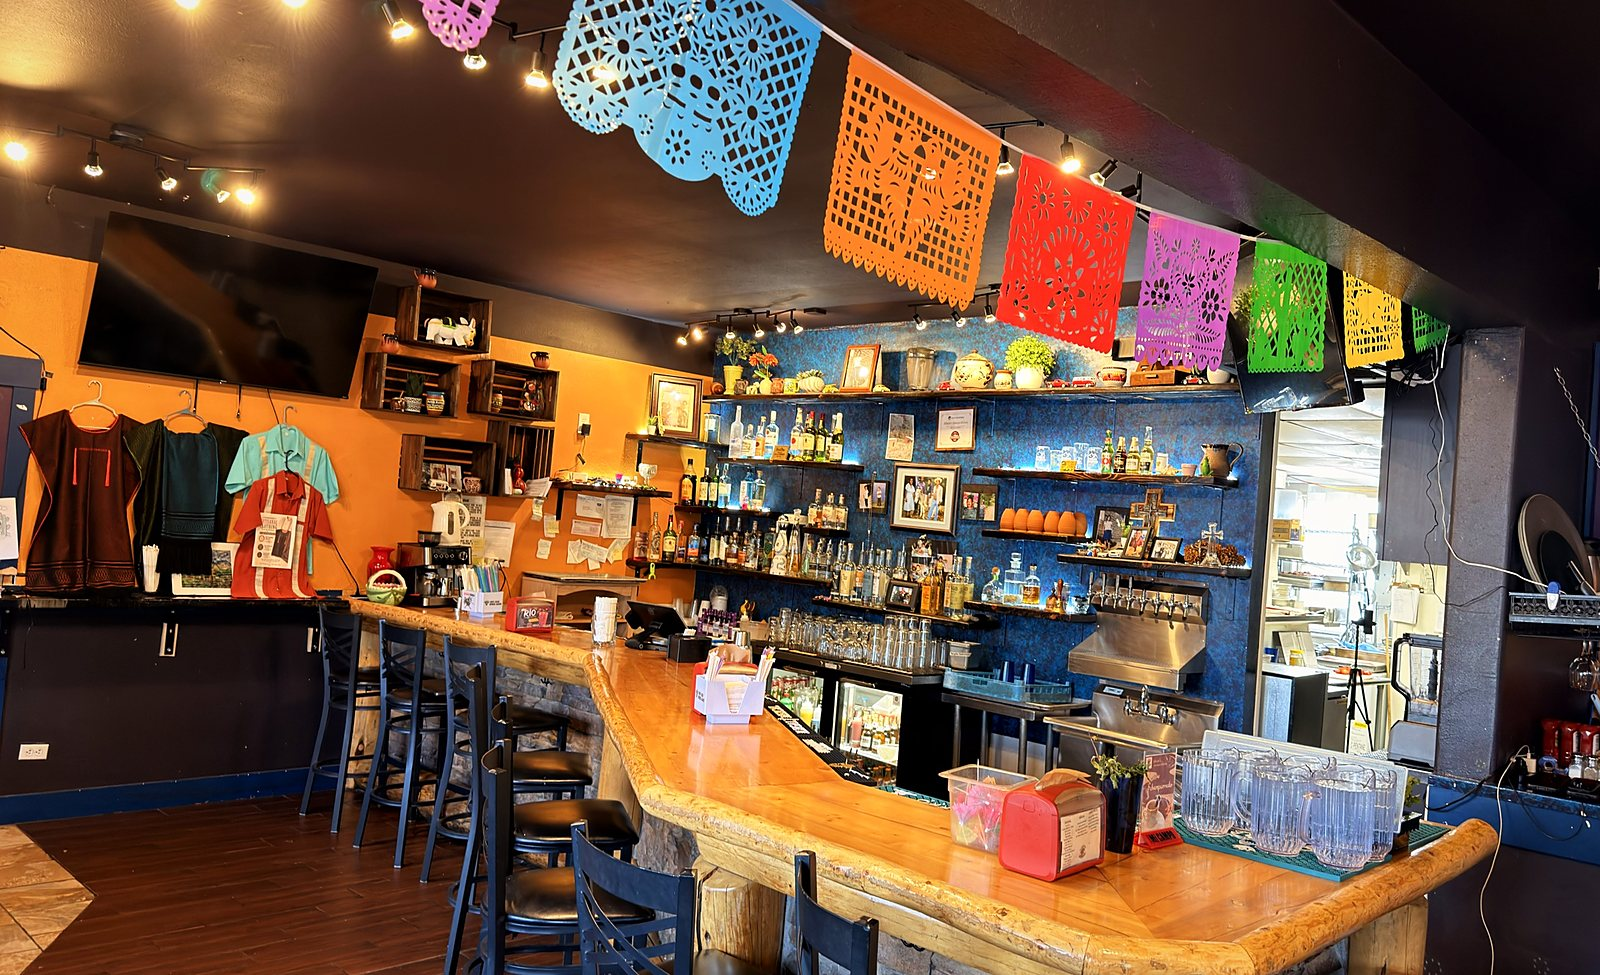
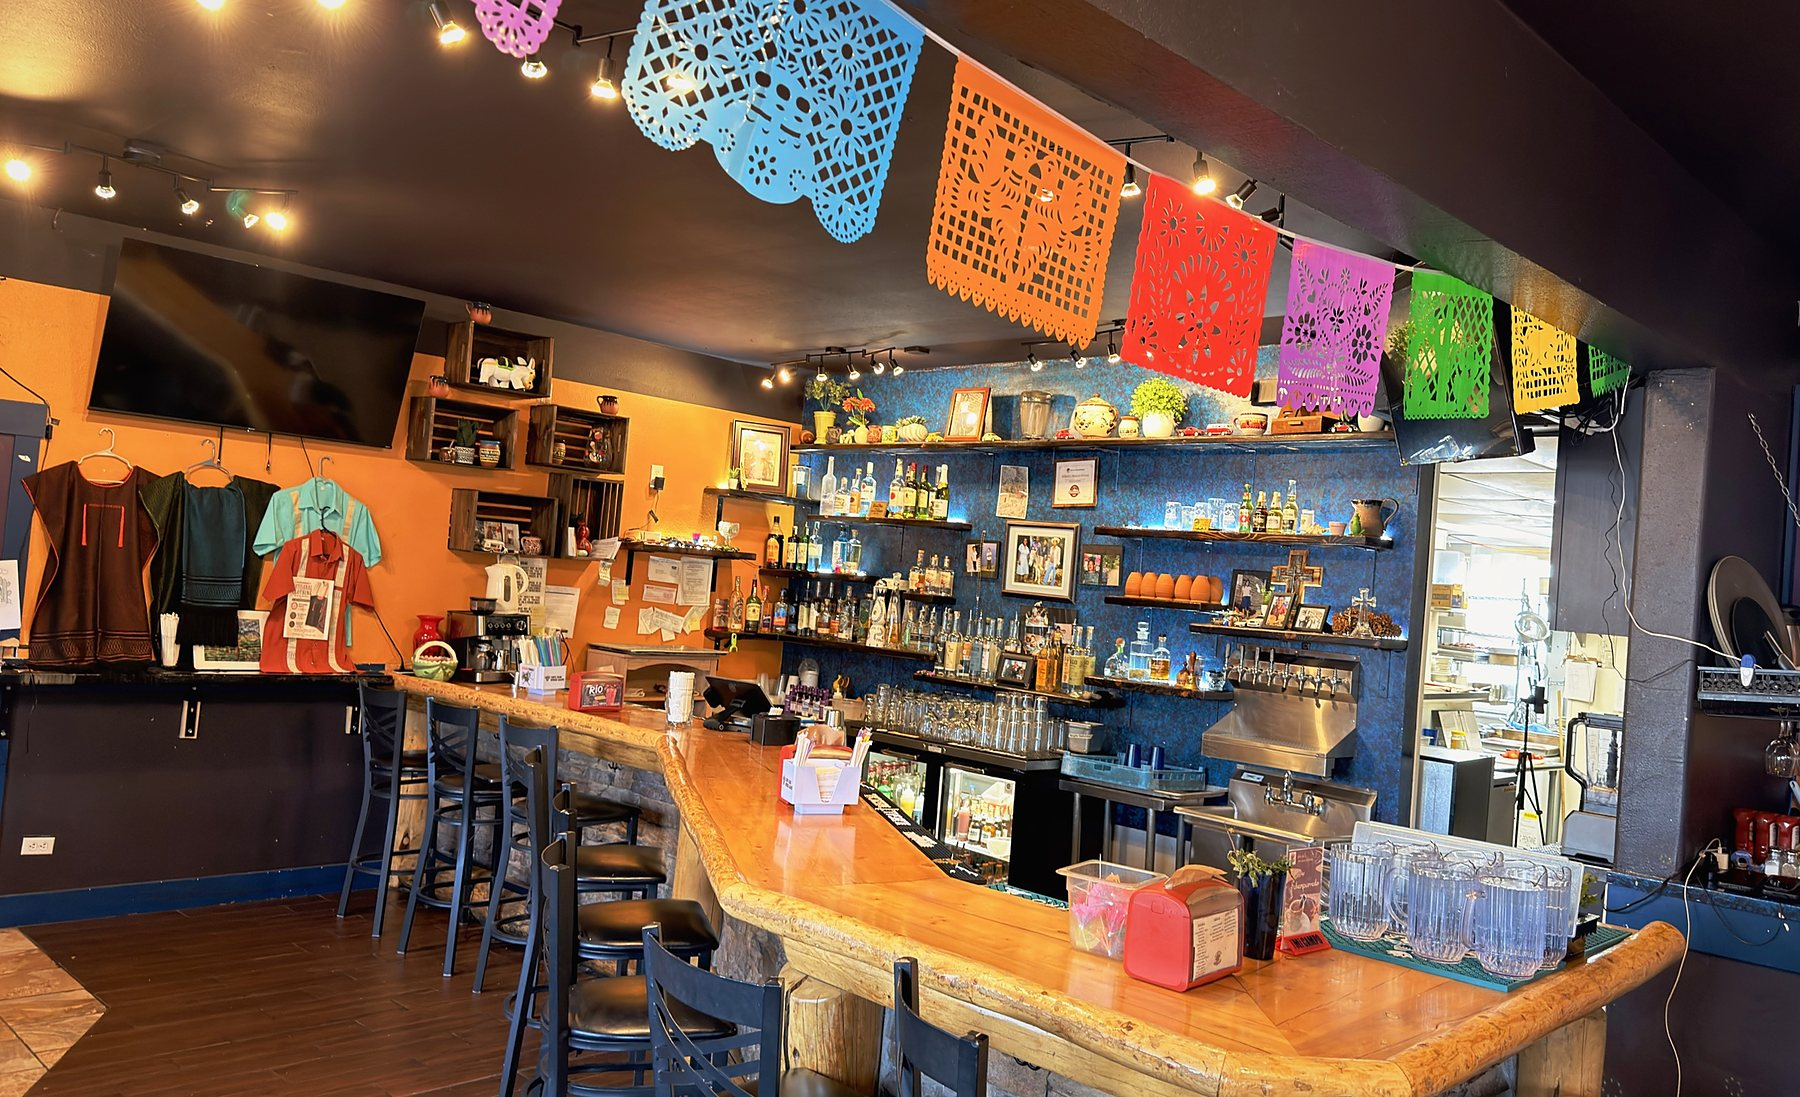
Redesign photo layout: cleaner frames, new menu photo strip, better Alberto shot
- Swap birria photo for a clean frame (no sunglasses on the table)
- Our Story: Alberto flipping a pan, unframed 4:5 with a quiet caption
- Menu: 4-up staggered photo strip under the header; breakfast pair at 3:2
- Find Us: bar photo beside the details, map moved to a full-width strip
- Tlayuda (no photo yet) becomes a centered interlude instead of an empty row
- Drop the weaker shots (smothered burrito) and the old framed sticker style

Claude-Session: https://claude.ai/code/session_01Qs3haLnLkk3n1Sg2hGmAWp

diff --git a/css/styles.css b/css/styles.css
@@ -109,8 +109,6 @@ a.brand{text-decoration:none;color:var(--ink)}
 .story-photo .glyph{font-family:'Fraunces',serif;font-style:italic;font-size:clamp(20px,2.6vw,26px);color:var(--ink-soft);opacity:.75;line-height:1.25}
 .story-photo.filled{border:7px solid var(--cream);background:none;padding:0;box-shadow:0 34px 64px -30px rgba(0,0,0,.8)}
 .story-photo.filled .px-img{position:absolute;top:0;left:0;width:100%;height:100%;background-size:cover;background-position:center}
-.story-photo.filled{aspect-ratio:4/5;max-width:520px;width:100%;justify-self:center}
-.story-photo.filled .stamp{z-index:1}
 @media(min-width:860px){.story-grid{grid-template-columns:1.05fr .95fr}}
 /* single-column story, used while the Our Kitchen photo slot is empty */
 .story-grid.solo{grid-template-columns:1fr;max-width:840px;margin-left:auto;margin-right:auto}
@@ -200,8 +198,6 @@ a.brand{text-decoration:none;color:var(--ink)}
 .info-row .v{color:rgba(252,246,234,.9)}
 .info-row .v a{color:var(--cream)}
 .visit-actions{display:flex;gap:14px;flex-wrap:wrap;margin-top:26px}
-.visit-media{display:grid;gap:18px}
-.visit-photo{display:block;width:100%;aspect-ratio:16/10;object-fit:cover;border-radius:20px;border:5px solid var(--cream)}
 .map{border-radius:20px;overflow:hidden;min-height:340px;border:5px solid var(--cream)}
 .map iframe{width:100%;height:100%;min-height:340px;border:0;display:block;filter:saturate(1.05)}
 
@@ -263,3 +259,27 @@ footer{background:var(--mole2);color:var(--cream);padding:clamp(44px,6vw,68px) 0
 .px{border:none;border-radius:4px;aspect-ratio:4/3}
 @media(min-width:880px){.faves .wrap{max-width:1360px}.frow{grid-template-columns:1.35fr 1fr}.frow.rev{grid-template-columns:1fr 1.35fr}.px{aspect-ratio:5/4}}
 .bandsec{padding:0}.band{max-width:none;border-radius:0;min-height:clamp(420px,62vw,640px)}
+
+/* ===== real photography (Nov 2026) =====
+   One quiet frame style everywhere: no borders, 4px corners, soft shadow,
+   small letter-spaced captions. */
+.story-figure,.visit-figure{margin:0}
+.story-figure img,.visit-figure img{display:block;width:100%;height:auto;object-fit:cover;border-radius:4px;box-shadow:0 40px 70px -40px rgba(32,17,10,.55)}
+.story-figure img{aspect-ratio:4/5}
+.story-figure figcaption,.visit-figure figcaption{margin-top:14px;font-size:12px;letter-spacing:.22em;text-transform:uppercase;color:var(--ink-soft)}
+.story-figure figcaption::before,.visit-figure figcaption::before{content:"";display:inline-block;width:28px;height:1px;background:currentColor;vertical-align:middle;margin-right:12px;opacity:.6}
+@media(min-width:860px){
+  .story-grid{grid-template-columns:1fr .9fr;gap:clamp(56px,7vw,110px)}
+  .story-figure{margin-top:-20px}
+}
+/* text-only favorite (no photo yet): centered interlude, framed by thin rules */
+.frow.textonly{grid-template-columns:1fr!important;max-width:620px;margin-left:auto;margin-right:auto;text-align:center;padding:clamp(36px,5vw,56px) 0;border-top:1px solid rgba(252,246,234,.14);border-bottom:1px solid rgba(252,246,234,.14)}
+.frow.textonly .ftext p{margin-left:auto;margin-right:auto}
+/* visit: bar photo beside the details, map runs full width below */
+.visit-figure img{aspect-ratio:4/3;box-shadow:0 40px 80px -40px rgba(0,0,0,.9)}
+.visit-figure figcaption{color:rgba(252,246,234,.6)}
+@media(min-width:860px){.visit-grid{align-items:center;grid-template-columns:1fr 1.1fr;gap:clamp(48px,6vw,96px)}}
+.map.map-strip{border:0;border-radius:0;min-height:0;height:clamp(260px,32vw,380px);margin-top:clamp(56px,8vw,100px);filter:grayscale(.35) contrast(.95)}
+.map.map-strip iframe{height:100%;min-height:0}
+.visit{padding-bottom:0}
+@media(max-width:600px){.story-stats{flex-wrap:nowrap;gap:8px}.story-stats .stat{flex:1 1 0;min-width:0;padding:12px 10px}.story-stats .stat .n{font-size:20px}.story-stats .stat .l{font-size:11px}}

diff --git a/menu.html b/menu.html
@@ -46,6 +46,16 @@
   </div>
 </section>
 
+<!-- PHOTO STRIP: real photos from the restaurant -->
+<section class="mstrip" aria-label="Photos from Allberto's">
+  <div class="mstrip-grid">
+    <figure class="reveal"><img src="images/alberto-grill.jpg" alt="Alberto cooking on the grill" width="1100" height="1375" /><figcaption>Alberto at the grill</figcaption></figure>
+    <figure class="reveal"><img src="images/chilaquiles-tall.jpg" alt="Chilaquiles with steak and avocado" width="1100" height="1375" /><figcaption>Chilaquiles</figcaption></figure>
+    <figure class="reveal"><img src="images/birria-tall.jpg" alt="Birria tacos with consommé" width="819" height="980" /><figcaption>Birria</figcaption></figure>
+    <figure class="reveal"><img src="images/omelette-tall.jpg" alt="Steak omelette with home fries and tortillas" width="1100" height="1375" /><figcaption>Steak omelette</figcaption></figure>
+  </div>
+</section>
+
 <!-- MARQUEE -->
 <div class="marquee" aria-hidden="true">
   <div class="marquee-track">
@@ -169,10 +179,8 @@
       <span class="mprice">$18.50</span>
     </div>
     <div class="mpics reveal">
-      <figure><img src="images/chilaquiles-menu.jpg" alt="Chilaquiles with steak and avocado" loading="lazy" /><figcaption>Chilaquiles with steak</figcaption></figure>
-      <figure><img src="images/steak-omelette.jpg" alt="Steak omelette with home fries and flour tortillas" loading="lazy" /><figcaption>Steak omelette</figcaption></figure>
-      <figure><img src="images/french-toast.jpg" alt="French toast with berry compote, cream, two eggs and home fries" loading="lazy" /><figcaption>French toast</figcaption></figure>
-      <figure><img src="images/egg-tacos.jpg" alt="Scrambled egg breakfast tacos with pico de gallo and salsa" loading="lazy" /><figcaption>Breakfast tacos</figcaption></figure>
+      <figure><img src="images/egg-tacos.jpg" alt="Scrambled egg breakfast tacos with pico de gallo and salsa" width="1200" height="800" loading="lazy" /><figcaption>Breakfast tacos</figcaption></figure>
+      <figure><img src="images/french-toast.jpg" alt="French toast with berry compote, cream, two eggs and home fries" width="1200" height="800" loading="lazy" /><figcaption>French toast</figcaption></figure>
     </div>
   </div>
 </section>
@@ -314,9 +322,6 @@
       <h3>Smother It</h3>
       <p>Homemade enchilada or ranchero sauce topped with crema and avocado sauce +$4.50 · homemade queso poblano +$6.</p>
       <span class="mprice">+$4.50 / +$6</span>
-    </div>
-    <div class="mpics one reveal">
-      <figure><img src="images/wet-burrito.jpg" alt="Burrito smothered in red and green sauce, topped with a fried egg, crema and avocado" loading="lazy" /><figcaption>Smothered, red and green</figcaption></figure>
     </div>
   </div>
 </section>

diff --git a/index.html b/index.html
@@ -82,10 +82,10 @@
         <div class="stat"><div class="n">4.7★</div><div class="l">Google reviews</div></div>
       </div>
     </div>
-    <div class="story-photo filled reveal">
-      <div class="px-img" role="img" aria-label="Alberto cooking on the grill in the Allberto's kitchen" style="background-image:url('images/kitchen-alberto.jpg')"></div>
-      <span class="stamp">OUR KITCHEN</span>
-    </div>
+    <figure class="story-figure reveal">
+      <img src="images/alberto-pan.jpg" alt="Alberto flipping a pan in the Allberto's kitchen" width="1100" height="1375" loading="lazy" />
+      <figcaption>Alberto in the kitchen</figcaption>
+    </figure>
   </div>
 </section>
 
@@ -102,7 +102,7 @@
 
     <div class="frow">
       <div class="fmedia reveal">
-        <div class="px" data-amp="18"><div class="px-img" style="background-image:url('images/birria-plate.jpg')"></div></div>
+        <div class="px" data-amp="18"><div class="px-img" role="img" aria-label="Birria tacos with a cup of consommé" style="background-image:url('images/birria-plate.jpg')"></div></div>
       </div>
       <div class="ftext reveal">
         <span class="ftag">Dip &amp; Devour</span>
@@ -124,7 +124,7 @@
       </div>
     </div>
 
-    <div class="frow" style="grid-template-columns:1fr"><!-- tlayuda photo removed until the real one is shot -->
+    <div class="frow textonly"><!-- tlayuda: text-only until a real photo is shot -->
       <div class="ftext reveal">
         <span class="ftag">Oaxaca Classic</span>
         <h3>Tlayuda Oaxaqueña</h3>
@@ -249,11 +249,12 @@
       </div>
       <p style="margin-top:26px;color:rgba(252,246,234,.7);font-size:15px">Planning an event? We cater. Give us a call and we'll build a spread for your group.</p>
     </div>
-    <div class="visit-media reveal">
-      <img class="visit-photo" src="images/bar.jpg" alt="The bar inside Allberto's, with papel picado and string lights" loading="lazy" />
-      <div class="map"><iframe title="Map to Allberto's Mexican Kitchen" loading="lazy" src="https://www.google.com/maps?q=1900+Airport+Road+Breckenridge+CO&output=embed"></iframe></div>
-    </div>
+    <figure class="visit-figure reveal">
+      <img src="images/bar.jpg" alt="The bar inside Allberto's, with papel picado and string lights" width="1800" height="1097" loading="lazy" />
+      <figcaption>Pull up a stool at the bar</figcaption>
+    </figure>
   </div>
+  <div class="map map-strip"><iframe title="Map to Allberto's Mexican Kitchen" loading="lazy" src="https://www.google.com/maps?q=1900+Airport+Road+Breckenridge+CO&output=embed"></iframe></div>
 </section>
 
 <!-- FOOTER -->

diff --git a/css/menu.css b/css/menu.css
@@ -11,9 +11,10 @@
 /* photo strip */
 .mstrip{max-width:var(--maxw);margin:0 auto;padding:clamp(10px,2vw,24px) var(--pad) clamp(30px,5vw,54px)}
 .mstrip-grid{display:grid;grid-template-columns:repeat(2,1fr);gap:clamp(10px,1.6vw,18px)}
-.mstrip .px{aspect-ratio:4/5;border-width:5px;border-radius:18px}
-.mstrip .tile-b{transform:rotate(-1.2deg)}
-.mstrip .tile-d{transform:rotate(1.2deg)}
+.mstrip figure{margin:0}
+.mstrip img{display:block;width:100%;height:auto;aspect-ratio:4/5;object-fit:cover;border-radius:4px;box-shadow:0 30px 50px -34px rgba(32,17,10,.6)}
+.mstrip figcaption{margin-top:10px;font-size:11px;letter-spacing:.2em;text-transform:uppercase;color:var(--ink-soft);text-align:center}
+.mstrip-grid figure:nth-child(even){margin-top:clamp(18px,3vw,40px)}
 @media(min-width:720px){.mstrip-grid{grid-template-columns:repeat(4,1fr)}}
 
 /* category sections */
@@ -55,9 +56,8 @@
 .mcta-actions{display:flex;justify-content:center;flex-wrap:wrap;gap:14px;position:relative;z-index:2}
 
 /* dish photos tucked under a category */
-.mpics{display:grid;grid-template-columns:1fr 1fr;gap:clamp(10px,2vw,18px);margin:clamp(8px,2vw,14px) auto 0;max-width:600px}
+.mpics{display:grid;grid-template-columns:1fr 1fr;gap:clamp(12px,2vw,20px);margin:clamp(20px,3vw,32px) auto 0;max-width:760px}
 .mpics.one{grid-template-columns:1fr;max-width:420px}
 .mpics figure{margin:0}
-.mpics img{display:block;width:100%;aspect-ratio:4/3;object-fit:cover;border-radius:14px;border:4px solid var(--cream);box-shadow:0 18px 34px -22px rgba(0,0,0,.6)}
-.mpics.one img{aspect-ratio:4/3}
-.mpics figcaption{text-align:center;font-family:'Fraunces',serif;font-style:italic;font-size:14px;color:var(--ink-soft);margin-top:8px}
+.mpics img{display:block;width:100%;height:auto;aspect-ratio:3/2;object-fit:cover;border-radius:4px;box-shadow:0 24px 40px -28px rgba(0,0,0,.6)}
+.mpics figcaption{text-align:center;font-size:11px;letter-spacing:.2em;text-transform:uppercase;color:var(--ink-soft);margin-top:10px}
